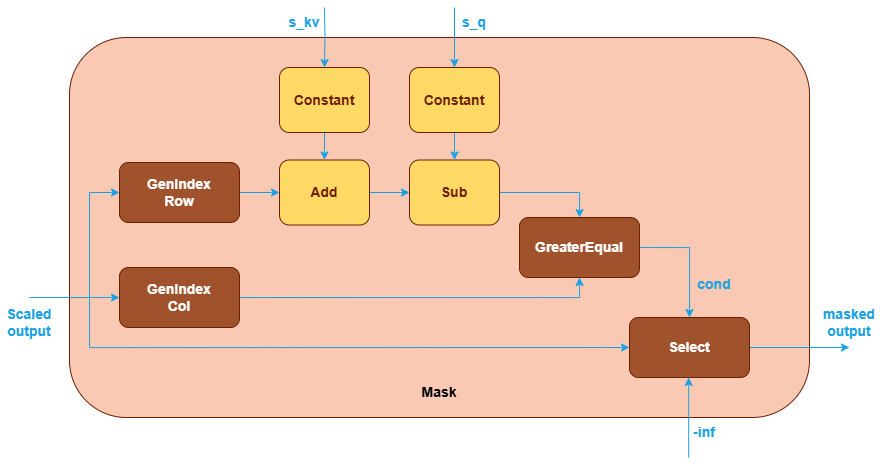
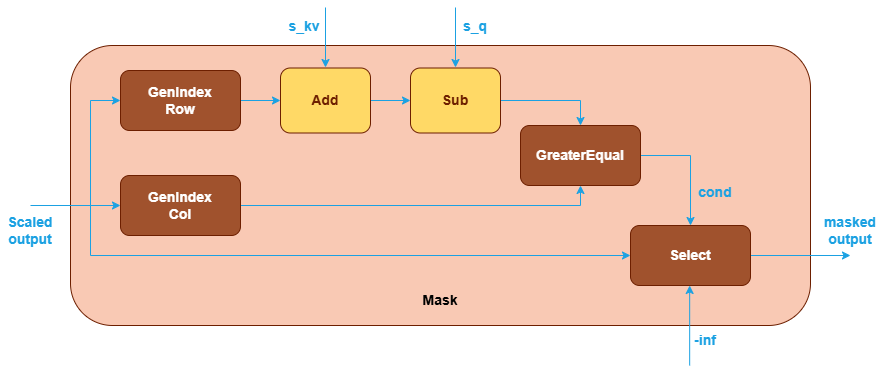
update bottom right causal mask part for further discussion

Changed region(s): [[0.0, 0.0294, 0.9205, 0.7353], [0.0614, 0.5588, 1.0, 0.9706], [0.0614, 0.1471, 0.092, 0.2353]]

diff --git a/rfcs/20241205-graph-api-causal-mask/README.md b/rfcs/20241205-graph-api-causal-mask/README.md
@@ -276,7 +276,7 @@ Users can construct the subgraph using the following structure:
 2. The condition for masking is changed (indicated by the yellow blocks in the
    following image), if the column index is less than the row index + s_kv -
    s_q, it indicates future tokens. This condition can be represented with
-   `GreaterEqual`, `Add`, `Sub`and two `Constant` operations.
+   `GreaterEqual`, `Add` and `Sub` operations.
 3. The `Select` operation sets these future token positions to -inf.
 
 ![causal mask subgraph bottom_right](images/causal_mask_subgraph_bottom_right.png)
@@ -286,7 +286,7 @@ With this proposal, the SDPA pattern will support above subgraph-based masks:
 ![sdpa with causal mask subgraph](images/sdpa_w_causal_mask_subgraph.png)
 
 To support this proposal, oneDNN Graph will need to support `GenInex` and
-`GreaterEqual` and `Constant` operations additionally.
+`GreaterEqual` operations additionally.
 
 #### GenIndex Op Support
 
@@ -363,39 +363,6 @@ GreaterEqual operation supports the following data type combinations.
 | bf16           | boolean |
 | s32            | boolean |
 
-#### Constant Op Support
-
-`Constant` operation takes a scalar as an attribute, and converts it to a tensor,
-which will then be passed to *Add* and *Sub* operations in the case of bottom-right
-causal mask to provide the information of s_q and s_kv. These values are needed during
-compilation stage to generate optimized kernels.
-
-##### Attributes
-
-| Attribute Name | Description | Value Type | Supported Values | Required or Optional |
-| :------------- | :---------- | :--------- | :--------------- | :------------------- |
-| [scalar] (@ref dnnl::graph::op::attr::scalar) | Specifies the constant value. | f32, bf16, f16 | arbitrary valid floating point value | Required             |
-
-##### Inputs
-
-N/A
-
-##### Outputs
-
-| Index | Argument Name | Required or Optional |
-| :---- | :------------ | :------------------- |
-| 0     | `dst`         | Required             |
-
-##### Supported data types
-
-`Constant` operation supports the following data type combinations.
-
-| Attribute | dst  |
-| :-------- | :--- |
-| f32       | f32  |
-| f16       | f16  |
-| bf16      | bf16 |
-
 #### Summary of Option 1
 
 Pros:
@@ -410,7 +377,7 @@ Pros:
 Cons:
 
 - Adding multiple operations for masking increases the overall graph complexity.
-- The library needs to add three new operations to support a single causal mask,
+- The library needs to add two new operations to support a single causal mask,
   which may be excessive.
 - This approach may require additional logical operations (e.g., LessThan, And)
   to be added if other mask types are needed in the future.
